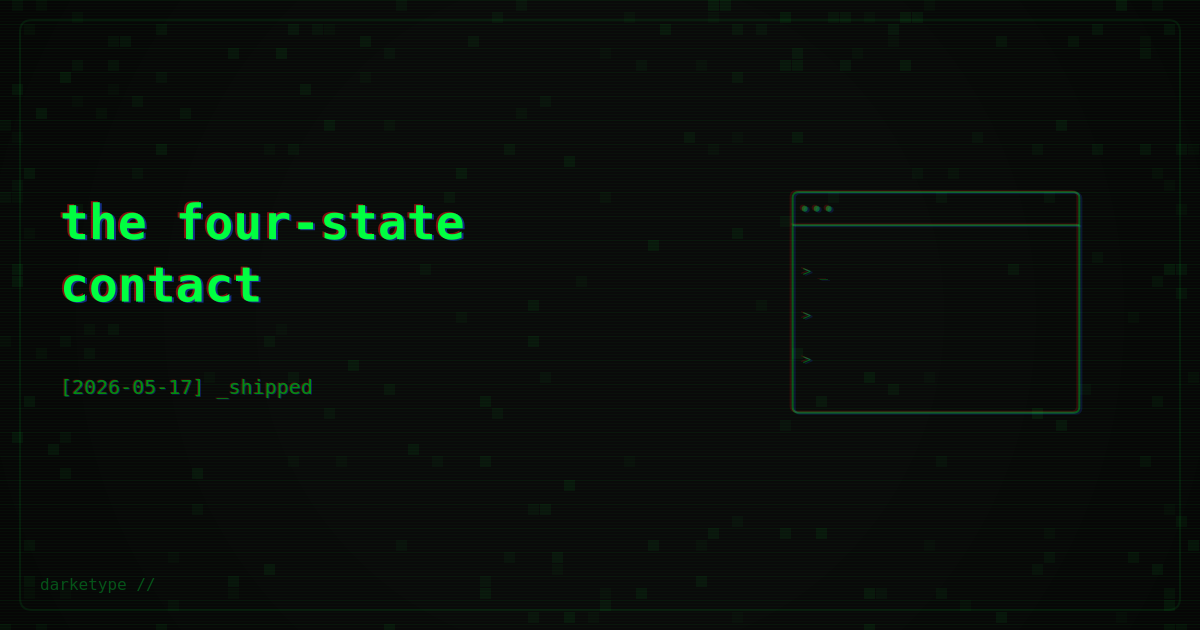
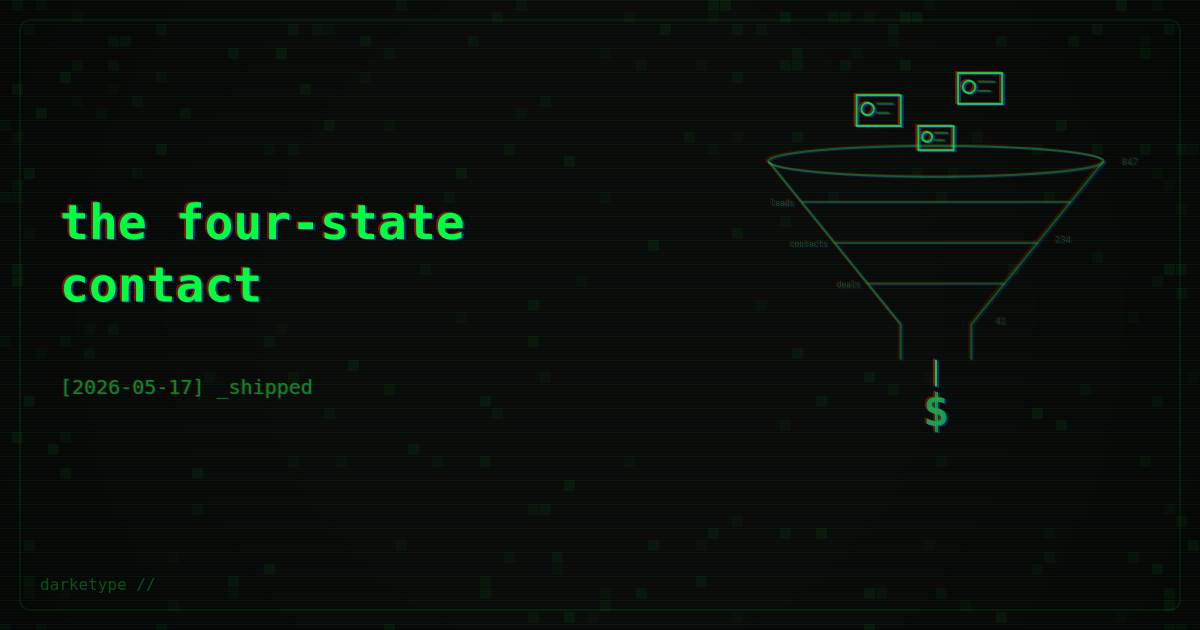
fix og image: map crm series to pipeline pictogram

diff --git a/scripts/generate_og_images.js b/scripts/generate_og_images.js
@@ -49,7 +49,8 @@ function wrapText(ctx, text, maxWidth) {
 function pickPictogram(entry) {
     const title = (entry.title || '').toLowerCase();
     const tags = (entry.tags || []).map(t => (typeof t === 'string' ? t : '').toLowerCase());
-    const all = title + ' ' + tags.join(' ');
+    const series = (entry.series || '').toLowerCase();
+    const all = title + ' ' + tags.join(' ') + ' ' + series;
     const slug = (entry.slug || entry.file || '').toLowerCase();
 
     // specific matches first
